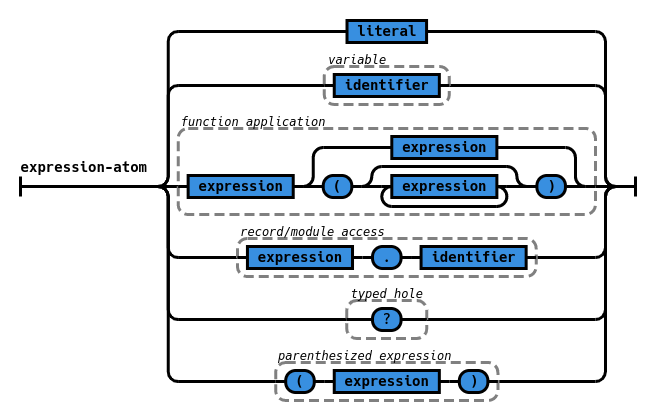
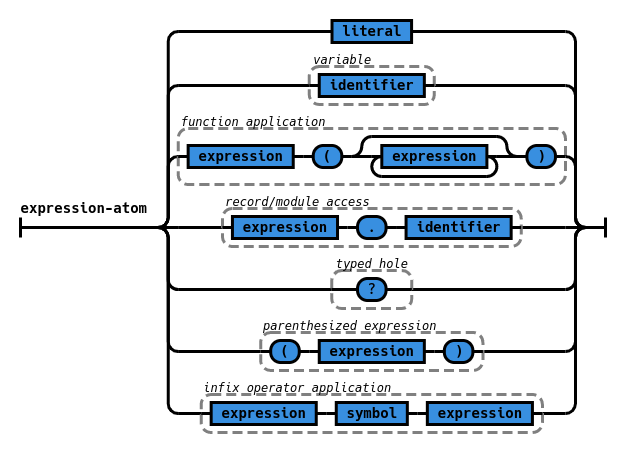
remove any reference to mixfix operators

Changed region(s): [[0.0304, 0.031, 0.9728, 0.9595]]

diff --git a/part1-zilch.tex b/part1-zilch.tex
@@ -193,10 +193,7 @@ Multiple string literals directly next to each other (as in \verb|"abc" "def"|) 
 \section{Expressions}\label{sec:zilch-grammar-expressions}
 
 Expressions are the basic building block of Zilch.
-\textit{Everything} is an expression, from simple arithmetic like \texttt{3 + 6} to complex \texttt{do} blocks.
-
-Because of the presence of mixfix operators, it is harder to express a correct grammar.
-For conciseness sake, the disambiguation of mixfix operators into their correct application is left to a non-described process that we will simply refer to as ``desugaring''\footnote{Desugaring basically transforms an expression into a corresponding simpler expression to analyse later. E.g. \texttt{if c then t else e} is transformed into the simpler application \texttt{if\_then\_else\_ c t e}.}.
+\textit{Everything} is an expression, from simple arithmetic like \texttt{3 + 6} to complex \texttt{let-in} expressions.
 
 \subsection{Lambda abstraction}\label{subsec:zilch-grammar-expressions-lambda}
 
@@ -339,32 +336,6 @@ Record literals allow constructing records in the same fashion as in e.g.\ C.
   \label{fig:zilch-gramma-expressions-record-grammar}
 \end{figure}
 
-\subsection{Mixfix operators}\label{subsec:zilch-grammar-expressions-mixfix}
-
-Mixfix operators allow expressing n-ary operators.
-For example, in Haskell you can only define infix operators (that is, any operator of the form \verb|_<op>_|) and has a limited support for unary operators (prefix and postfix, \verb|<op>_| and \verb|_<op>|).
-Yet there are other kinds of operators.
-Operators may also be closed (\verb|<op>_<op>|), and contain more than two holes: \verb|if_then_else_| is a great example of ternary prefix operator.
-
-Mixfix disambiguation will not be covered in this document, because of how difficult it is.
-However, Ulf Norell's paper~\cite{mixfix-operators} about parsing mixfix operators is a great resource for this.
-
-Note that, while \verb|_| is allowed in identifiers, having one in a mixfix backbone may not yield any parse result, because \verb|_| represents a hole when declaring the operator.
-Therefore, the operator \verb|_+_| cannot be used like \verb|0 _+_ 1| or \verb|0 +_ 1| (both give parse errors), but it may be used as a standard function application like \verb|_+_(0, 1)|.
-
-\begin{figure}[H]
-  \centering
-
-  \framebox[\textwidth][c]{
-    \scalebox{.5}{
-      \includegraphics{zilch/expression/mixfix}
-    }
-  }
-
-  \caption{Grammar for mixfix operators.}
-  \label{fig:zilch-grammar-expressions-mxifix-grammar}
-\end{figure}
-
 \subsection{Variables, typed holes and literals}\label{subsec:zilch-grammar-expressions-basicexpr}
 
 \begin{figure}[H]
@@ -406,9 +377,6 @@ Any other type can be used anywhere.
       }\\
       \scalebox{.5}{
         \includegraphics{zilch/types/builtin}
-      }\\
-      \scalebox{.5}{
-        \includegraphics{zilch/types/mixfix}
       }\\
       \scalebox{.5}{
         \includegraphics{zilch/types/wildcard-abstraction}

diff --git a/railroad-diagrams.py b/railroad-diagrams.py
@@ -965,7 +965,7 @@ def zilch_record():
 
 def zilch_basicexpr():
 	inner = Choice(
-		2,
+		3,
 		NonTerminal('literal'),
 		Group(
 			NonTerminal('identifier'),
@@ -974,17 +974,11 @@ def zilch_basicexpr():
 		Group(
 			Sequence(
 				NonTerminal('expression'),
-				Choice(
-					1,
-					NonTerminal('expression'),
-					Sequence(
-						Terminal('('),
-						ZeroOrMore(
-							NonTerminal('expression')
-						),
-						Terminal(')')
-					)
-				)
+				Terminal('('),
+				ZeroOrMore(
+					NonTerminal('expression')
+				),
+				Terminal(')')
 			),
 			'function application'
 		),
@@ -1007,6 +1001,14 @@ def zilch_basicexpr():
 				Terminal(')')
 			),
 			'parenthesized expression'
+		),
+		Group(
+			Sequence(
+				NonTerminal('expression'),
+				NonTerminal('symbol'),
+				NonTerminal('expression')
+			),
+			'infix operator application'
 		)
 	)
 
@@ -1670,4 +1672,4 @@ def zilch_letin():
 
 	return mk_diagram2('let-in', inner)
 
-zilch_letin().writeSvg(sys.stdout.write)
+zilch_basicexpr().writeSvg(sys.stdout.write)
